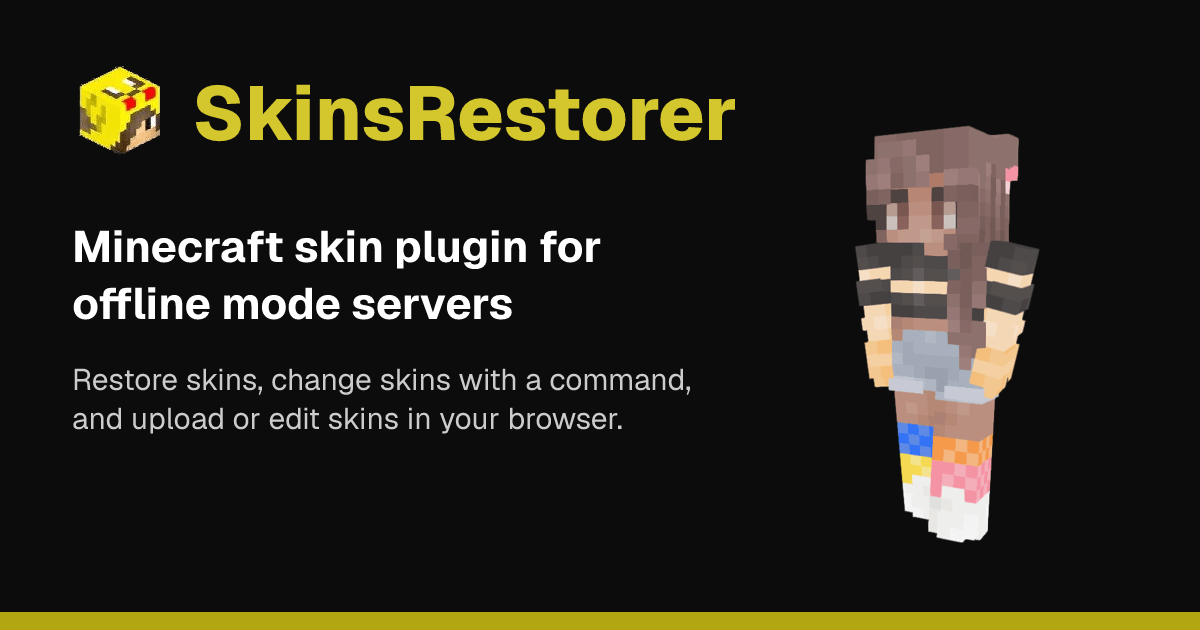
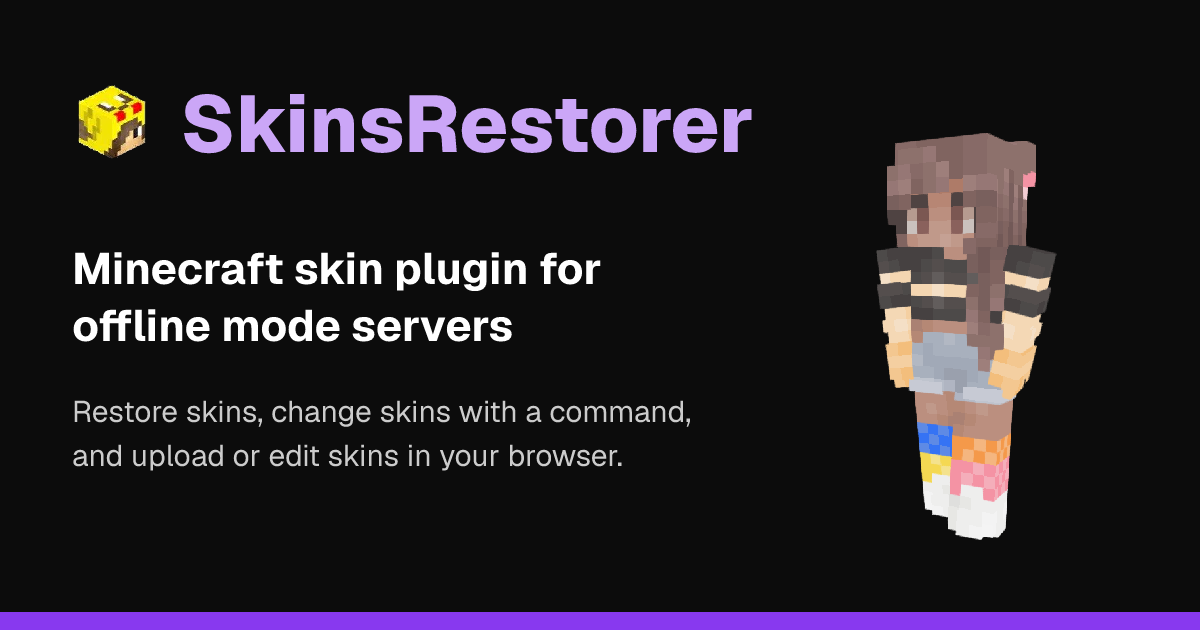
feat(seo): purple share images, breadcrumbs, and translated llms.txt
- Docs and default share images use the brand purple.
- Docs pages add BreadcrumbList structured data.
- robots.txt is cached for a day, and llms.txt lists translated docs.

diff --git a/src/lib/seo.test.ts b/src/lib/seo.test.ts
@@ -101,7 +101,9 @@ test("the home page describes one multilingual website at the root URL", () => {
     const head = getPageHead("/", { locale });
     const script = head.meta.find((tag) => "script:ld+json" in tag);
     assert.ok(script && "script:ld+json" in script);
-    const website = script["script:ld+json"]["@graph"][0];
+    const data = script["script:ld+json"];
+    assert.ok("@graph" in data);
+    const website = data["@graph"][0];
     assert.ok(website);
     assert.equal(website["@id"], `${siteUrl}/#website`);
     assert.equal(website.url, `${siteUrl}/`);
@@ -143,4 +145,35 @@ function hrefLanguages(path: string) {
 test("legal pages list only English, translated pages list every locale", () => {
   assert.deepEqual(hrefLanguages("/privacy-policy"), ["en", "x-default"]);
   assert.deepEqual(hrefLanguages("/ru/pricing"), [...locales, "x-default"]);
+});
+
+test("guides describe their section path as a breadcrumb list", () => {
+  const head = getPageHead("/ru/docs/installation/proxy", {
+    breadcrumbs: [
+      { name: "Документация", url: "/ru/docs" },
+      { name: "Установка", url: "/ru/docs/installation" },
+      { name: "Прокси", url: "/ru/docs/installation/proxy" },
+    ],
+  });
+  const script = head.meta.find((tag) => "script:ld+json" in tag);
+  assert.ok(script && "script:ld+json" in script);
+  assert.deepEqual(script["script:ld+json"], {
+    "@context": "https://schema.org",
+    "@type": "BreadcrumbList",
+    itemListElement: [
+      ["Документация", "/ru/docs"],
+      ["Установка", "/ru/docs/installation"],
+      ["Прокси", "/ru/docs/installation/proxy"],
+    ].map(([name, path], index) => ({
+      "@type": "ListItem",
+      position: index + 1,
+      name,
+      item: `${siteUrl}${path}`,
+    })),
+  });
+  // The docs home has no ancestors to show.
+  const home = getPageHead("/docs", {
+    breadcrumbs: [{ name: "Docs", url: "/docs" }],
+  });
+  assert.ok(!home.meta.some((tag) => "script:ld+json" in tag));
 });

diff --git a/src/lib/get-llm-text.ts b/src/lib/get-llm-text.ts
@@ -1,7 +1,13 @@
 import { Effect, Schema } from "effect";
 import type { InferPageType } from "fumadocs-core/source";
 import { flattenTree, type Node } from "fumadocs-core/page-tree";
-import { isLocale, type Locale } from "@/lib/i18n";
+import {
+  docFileInfo,
+  isLocale,
+  localeNames,
+  locales,
+  type Locale,
+} from "@/lib/i18n";
 import { absoluteDocsUrl, formatExportedMarkdown } from "@/lib/llm-markdown";
 import { translate, type MessageKey } from "@/lib/messages";
 import { source } from "@/lib/source";
@@ -76,9 +82,24 @@ const websiteTools = [
   ["/generator", "generator.title", "generator.description"],
 ] as const satisfies readonly (readonly [string, MessageKey, MessageKey])[];
 
+/** One line per language with its own guides, linking its docs home. */
+function translationLines() {
+  return locales.flatMap((locale) => {
+    const home = source.getPage([], locale);
+    const translated = source
+      .getPages(locale)
+      .filter((page) => docFileInfo(page.path).locale === locale).length;
+    return locale === "en" || !home || translated === 0
+      ? []
+      : [
+          `- [${localeNames[locale]}](${absoluteDocsUrl(`${home.url}.mdx`)}): ${translated} translated guides`,
+        ];
+  });
+}
+
 /**
- * The llms.txt index: sidebar sections with links to Markdown pages, then the
- * website tools.
+ * The llms.txt index: sidebar sections with links to Markdown pages, the
+ * translated documentation, then the website tools.
  */
 export function getLLMIndex() {
   const tree = source.getPageTree("en");
@@ -109,6 +130,7 @@ export function getLLMIndex() {
     `> ${home?.data.description ?? "Install, configure, and extend SkinsRestorer."}`,
     `The complete documentation as one file: ${absoluteDocsUrl("/llms-full.txt")}`,
     ...sections,
+    `## Translations\n\nPages without a translation are served in English.\n\n${translationLines().join("\n")}`,
     `## Website tools\n\n${websiteTools
       .map(
         ([path, title, description]) =>

diff --git a/src/lib/seo.ts b/src/lib/seo.ts
@@ -20,6 +20,8 @@ export function getPageHead(
     locale?: Locale;
     alternatives?: readonly Locale[];
     contentLocale?: Locale;
+    /** Ancestors of a guide, ending with the page itself. */
+    breadcrumbs?: readonly Breadcrumb[];
   } = {},
 ) {
   const { path: bare, locale: pathLocale } = splitLocalePath(
@@ -69,6 +71,9 @@ export function getPageHead(
             },
           ]
         : []),
+      ...(options.breadcrumbs && options.breadcrumbs.length > 1
+        ? [{ "script:ld+json": getBreadcrumbList(options.breadcrumbs) }]
+        : []),
     ],
     links: [
       { rel: "canonical", href: url },
@@ -84,6 +89,25 @@ export function getPageHead(
         }),
       ),
     ],
+  };
+}
+
+export interface Breadcrumb {
+  name: string;
+  url: string;
+}
+
+/** Lets search results show a guide's section path instead of its URL. */
+function getBreadcrumbList(items: readonly Breadcrumb[]) {
+  return {
+    "@context": "https://schema.org",
+    "@type": "BreadcrumbList",
+    itemListElement: items.map(({ name, url }, index) => ({
+      "@type": "ListItem",
+      position: index + 1,
+      name,
+      item: new URL(url, siteUrl).href,
+    })),
   };
 }
 

diff --git a/src/lib/docs-og.tsx b/src/lib/docs-og.tsx
@@ -31,7 +31,7 @@ function renderDocsImage({ title, description }: DocsImageText) {
         padding: 64,
         backgroundColor: "#0c0c0c",
         color: "white",
-        borderBottom: "18px solid #b2a711",
+        borderBottom: "18px solid #8839ef",
       }}
     >
       {/* Long front matter ends with an ellipsis instead of overflowing. */}
@@ -41,7 +41,7 @@ function renderDocsImage({ title, description }: DocsImageText) {
       <p style={{ fontSize: 40, color: "#ddd", marginTop: 24, lineClamp: 3 }}>
         {description}
       </p>
-      <p style={{ fontSize: 48, color: "#d4c72e", marginTop: "auto" }}>
+      <p style={{ fontSize: 48, color: "#cba6f7", marginTop: "auto" }}>
         SkinsRestorer
       </p>
     </div>,

diff --git a/src/routes/robots[.]txt.ts b/src/routes/robots[.]txt.ts
@@ -7,7 +7,10 @@ export const Route = createFileRoute("/robots.txt")({
         new Response(
           "User-agent: *\nAllow: /\n\nSitemap: https://skinsrestorer.net/sitemap.xml\n",
           {
-            headers: { "Content-Type": "text/plain; charset=utf-8" },
+            headers: {
+              "Content-Type": "text/plain; charset=utf-8",
+              "Cache-Control": "public, max-age=86400",
+            },
           },
         ),
     },
